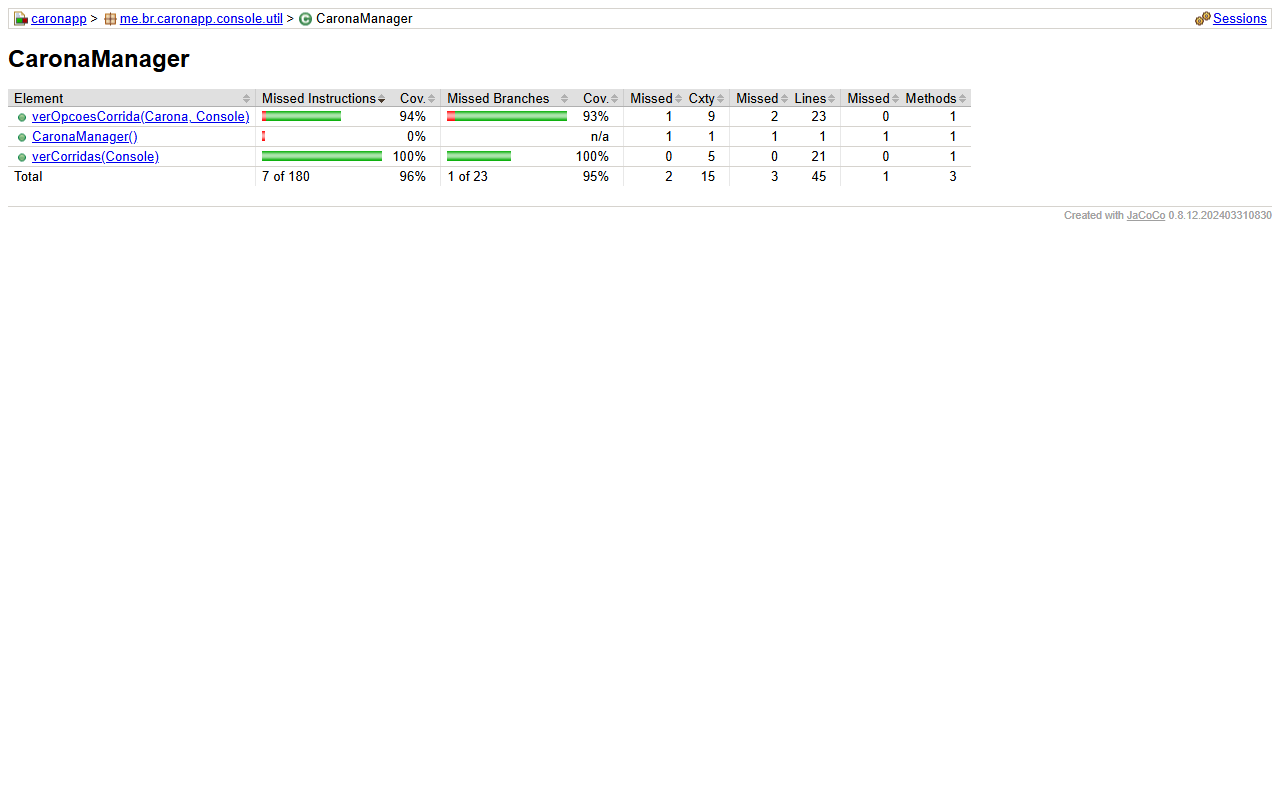
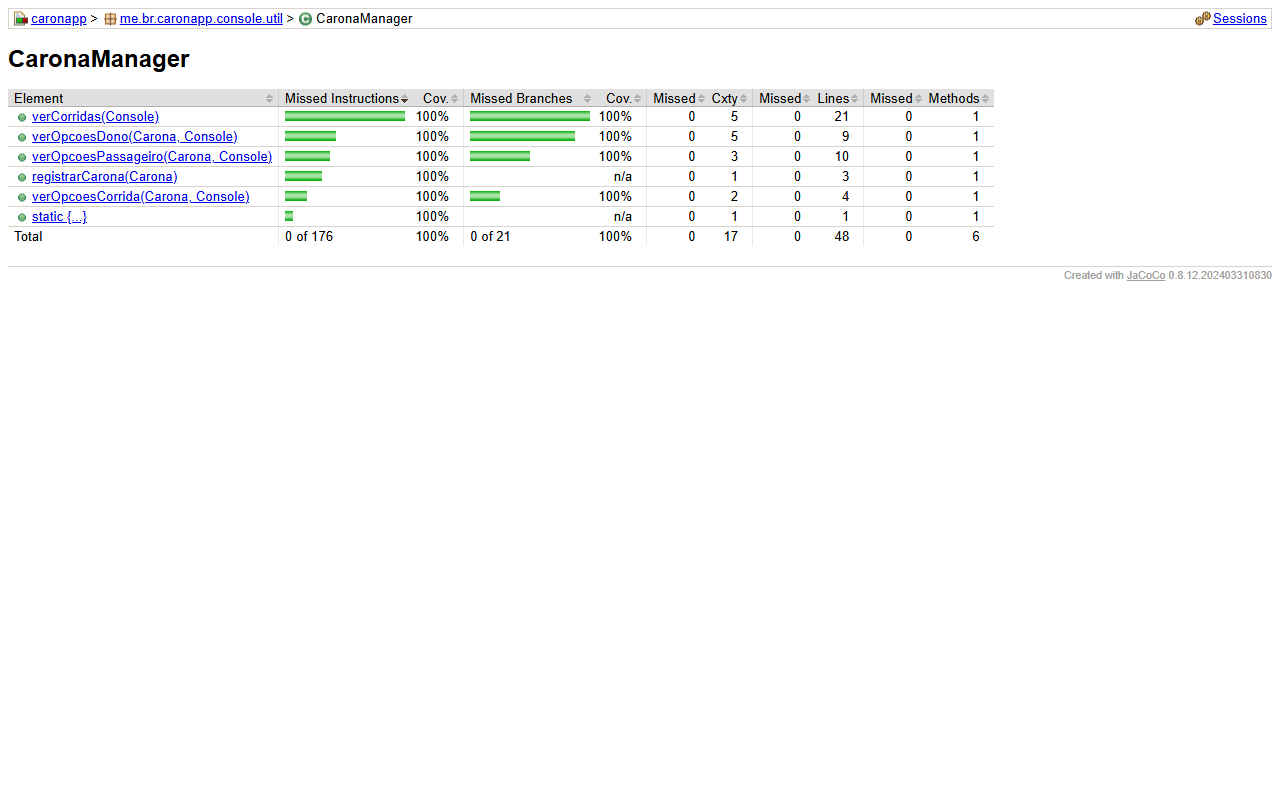
refactor: corrige apontamentos do SonarQube em CaronaManager e atualiza evidencias

diff --git a/test/me/br/caronapp/console/util/CaronaManagerTest.java b/test/me/br/caronapp/console/util/CaronaManagerTest.java
@@ -9,10 +9,15 @@ import static org.mockito.Mockito.verify;
 import static org.mockito.Mockito.when;
 
 import java.io.ByteArrayOutputStream;
-import java.io.PrintStream;
+import java.io.UnsupportedEncodingException;
+import java.nio.charset.StandardCharsets;
 import java.util.ArrayList;
 import java.util.Arrays;
 import java.util.Scanner;
+import java.util.logging.Level;
+import java.util.logging.Logger;
+import java.util.logging.SimpleFormatter;
+import java.util.logging.StreamHandler;
 
 import org.junit.jupiter.api.AfterEach;
 import org.junit.jupiter.api.BeforeEach;
@@ -38,26 +43,38 @@ import me.br.caronapp.usuario.Usuario;
 public class CaronaManagerTest {
 
     private Scanner scanner;
-    private final ByteArrayOutputStream outputCapture = new ByteArrayOutputStream();
-    private final ByteArrayOutputStream errCapture = new ByteArrayOutputStream();
-    private PrintStream originalOut;
-    private PrintStream originalErr;
+    private ByteArrayOutputStream outputCapture;
+    private final Logger logger = Logger.getLogger(CaronaManager.class.getName());
+    private StreamHandler handler;
+    private boolean usarHandlersOriginais;
+    private Level nivelOriginal;
 
     @BeforeEach
-    void setUp() {
-        originalOut = System.out;
-        originalErr = System.err;
-        System.setOut(new PrintStream(outputCapture));
-        System.setErr(new PrintStream(errCapture));
+    void setUp() throws UnsupportedEncodingException {
+        outputCapture = new ByteArrayOutputStream();
+        handler = new StreamHandler(outputCapture, new SimpleFormatter());
+        handler.setEncoding(StandardCharsets.UTF_8.name());
+        usarHandlersOriginais = logger.getUseParentHandlers();
+        nivelOriginal = logger.getLevel();
+        logger.setUseParentHandlers(false);
+        logger.setLevel(Level.INFO);
+        logger.addHandler(handler);
     }
 
     @AfterEach
     void tearDown() {
+        logger.removeHandler(handler);
+        handler.close();
+        logger.setUseParentHandlers(usarHandlersOriginais);
+        logger.setLevel(nivelOriginal);
         if (scanner != null) {
             scanner.close();
         }
-        System.setOut(originalOut);
-        System.setErr(originalErr);
+    }
+
+    private String saida() {
+        handler.flush();
+        return outputCapture.toString(StandardCharsets.UTF_8);
     }
 
     private Console mockConsole(String input, Usuario user) {
@@ -100,7 +117,7 @@ public class CaronaManagerTest {
 
         CaronaManager.verCorridas(console);
 
-        String saida = outputCapture.toString();
+        String saida = saida();
         assertTrue(saida.contains("Caronas nas quais voce eh dono:"));
         assertTrue(saida.contains("Caronas nas quais voce eh passageiro:"));
         assertTrue(saida.contains("Digite um ID de carona:"));
@@ -120,7 +137,7 @@ public class CaronaManagerTest {
 
         CaronaManager.verCorridas(console);
 
-        String saida = outputCapture.toString();
+        String saida = saida();
         int idxDono = saida.indexOf("Caronas nas quais voce eh dono:");
         int idxPassageiro = saida.indexOf("Caronas nas quais voce eh passageiro:");
         int idxC1 = saida.indexOf("1 - Carlos Dono - Praia Vermelha");
@@ -146,7 +163,7 @@ public class CaronaManagerTest {
 
         CaronaManager.verCorridas(console);
 
-        String saida = outputCapture.toString();
+        String saida = saida();
         int idxPassageiro = saida.indexOf("Caronas nas quais voce eh passageiro:");
         int idxC1 = saida.indexOf("10 - Host Um - Valonguinho");
         int idxC2 = saida.indexOf("20 - Host Dois - Praia Vermelha");
@@ -174,7 +191,7 @@ public class CaronaManagerTest {
 
         CaronaManager.verCorridas(console);
 
-        String saida = outputCapture.toString();
+        String saida = saida();
         int idxDono = saida.indexOf("Caronas nas quais voce eh dono:");
         int idxPass = saida.indexOf("Caronas nas quais voce eh passageiro:");
         int idxDigite = saida.indexOf("Digite um ID de carona:");
@@ -199,7 +216,7 @@ public class CaronaManagerTest {
 
         CaronaManager.verCorridas(console);
 
-        assertTrue(outputCapture.toString().contains("Carona nao encontrada..."));
+        assertTrue(saida().contains("Carona nao encontrada..."));
         verify(carona, never()).setEstado(any());
         verify(console).setStage(Stage.LOBBY);
     }
@@ -216,7 +233,7 @@ public class CaronaManagerTest {
 
         CaronaManager.verCorridas(console);
 
-        assertTrue(outputCapture.toString().contains("Vai partir agora? (1 - sim / 0 - nao)"));
+        assertTrue(saida().contains("Vai partir agora? (1 - sim / 0 - nao)"));
         verify(carona).setEstado(Estado.FECHADO);
         verify(console).setStage(Stage.LOBBY);
     }
@@ -232,7 +249,7 @@ public class CaronaManagerTest {
 
         CaronaManager.verCorridas(console);
 
-        assertTrue(outputCapture.toString().contains("Vai partir agora? (1 - sim / 0 - nao)"));
+        assertTrue(saida().contains("Vai partir agora? (1 - sim / 0 - nao)"));
         verify(carona, never()).setEstado(any());
         verify(console).setStage(Stage.LOBBY);
     }
@@ -249,7 +266,7 @@ public class CaronaManagerTest {
 
         CaronaManager.verCorridas(console);
 
-        assertTrue(outputCapture.toString().contains("Ja chegou no ponto? Deseja finalizar? (1 - sim / 0 - nao)"));
+        assertTrue(saida().contains("Ja chegou no ponto? Deseja finalizar? (1 - sim / 0 - nao)"));
         verify(carona).setEstado(Estado.FINALIZADO);
         verify(console).setStage(Stage.LOBBY);
     }
@@ -265,7 +282,7 @@ public class CaronaManagerTest {
 
         CaronaManager.verCorridas(console);
 
-        assertTrue(outputCapture.toString().contains("Ja chegou no ponto? Deseja finalizar? (1 - sim / 0 - nao)"));
+        assertTrue(saida().contains("Ja chegou no ponto? Deseja finalizar? (1 - sim / 0 - nao)"));
         verify(carona, never()).setEstado(any());
         verify(console).setStage(Stage.LOBBY);
     }
@@ -282,7 +299,7 @@ public class CaronaManagerTest {
 
         CaronaManager.verCorridas(console);
 
-        String saida = outputCapture.toString();
+        String saida = saida();
         assertTrue(saida.contains("Sem op") && saida.contains("dispon"));
         verify(carona, never()).setEstado(any());
         verify(console).setStage(Stage.LOBBY);
@@ -302,7 +319,7 @@ public class CaronaManagerTest {
 
         CaronaManager.verCorridas(console);
 
-        assertTrue(outputCapture.toString().contains("Deseja sair dessa corrida? (1 - sim / 0 - nao)"));
+        assertTrue(saida().contains("Deseja sair dessa corrida? (1 - sim / 0 - nao)"));
         verify(carona).removePassageiro(passageiro);
         verify(console).setStage(Stage.LOBBY);
     }
@@ -319,7 +336,7 @@ public class CaronaManagerTest {
 
         CaronaManager.verCorridas(console);
 
-        assertTrue(outputCapture.toString().contains("Deseja sair dessa corrida? (1 - sim / 0 - nao)"));
+        assertTrue(saida().contains("Deseja sair dessa corrida? (1 - sim / 0 - nao)"));
         verify(carona, never()).removePassageiro(any(Usuario.class));
         verify(console).setStage(Stage.LOBBY);
     }
@@ -339,7 +356,9 @@ public class CaronaManagerTest {
 
         CaronaManager.verCorridas(console);
 
-        assertTrue(errCapture.toString().contains("UsuarioNaoEncontradoException"));
+        String saida = saida();
+        assertTrue(saida.contains("Nao foi possivel remover o passageiro da carona."));
+        assertTrue(saida.contains("UsuarioNaoEncontradoException"));
         verify(carona).removePassageiro(passageiro);
         verify(console).setStage(Stage.LOBBY);
     }
@@ -357,7 +376,7 @@ public class CaronaManagerTest {
 
         CaronaManager.verCorridas(console);
 
-        String saida = outputCapture.toString();
+        String saida = saida();
         assertTrue(saida.contains("Sem op") && saida.contains("dispon"));
         verify(carona, never()).removePassageiro(any(Usuario.class));
         verify(console).setStage(Stage.LOBBY);

diff --git a/test/me/br/caronapp/console/util/CaronaManagerIntegrationTest.java b/test/me/br/caronapp/console/util/CaronaManagerIntegrationTest.java
@@ -8,9 +8,14 @@ import static org.mockito.Mockito.verify;
 import static org.mockito.Mockito.when;
 
 import java.io.ByteArrayOutputStream;
-import java.io.PrintStream;
+import java.io.UnsupportedEncodingException;
+import java.nio.charset.StandardCharsets;
 import java.util.Calendar;
 import java.util.Scanner;
+import java.util.logging.Level;
+import java.util.logging.Logger;
+import java.util.logging.SimpleFormatter;
+import java.util.logging.StreamHandler;
 
 import org.junit.jupiter.api.AfterEach;
 import org.junit.jupiter.api.BeforeEach;
@@ -36,25 +41,42 @@ import me.br.caronapp.usuario.Usuario;
 public class CaronaManagerIntegrationTest {
 
     private Scanner scanner;
-    private final ByteArrayOutputStream outputCapture = new ByteArrayOutputStream();
-    private PrintStream originalOut;
+    private ByteArrayOutputStream outputCapture;
+    private final Logger logger = Logger.getLogger(CaronaManager.class.getName());
+    private StreamHandler handler;
+    private boolean usarHandlersOriginais;
+    private Level nivelOriginal;
     private int serialOriginal;
 
     @BeforeEach
-    void setUp() {
+    void setUp() throws UnsupportedEncodingException {
         serialOriginal = Carona.getSerial();
         Carona.setSerial(0);
-        originalOut = System.out;
-        System.setOut(new PrintStream(outputCapture));
+        outputCapture = new ByteArrayOutputStream();
+        handler = new StreamHandler(outputCapture, new SimpleFormatter());
+        handler.setEncoding(StandardCharsets.UTF_8.name());
+        usarHandlersOriginais = logger.getUseParentHandlers();
+        nivelOriginal = logger.getLevel();
+        logger.setUseParentHandlers(false);
+        logger.setLevel(Level.INFO);
+        logger.addHandler(handler);
     }
 
     @AfterEach
     void tearDown() {
+        logger.removeHandler(handler);
+        handler.close();
+        logger.setUseParentHandlers(usarHandlersOriginais);
+        logger.setLevel(nivelOriginal);
         if (scanner != null) {
             scanner.close();
         }
-        System.setOut(originalOut);
         Carona.setSerial(serialOriginal);
+    }
+
+    private String saida() {
+        handler.flush();
+        return outputCapture.toString(StandardCharsets.UTF_8);
     }
 
     private Console consoleComEntrada(String input, Usuario user) {
@@ -91,7 +113,7 @@ public class CaronaManagerIntegrationTest {
 
         CaronaManager.verCorridas(consoleComEntrada(String.valueOf(caronaDono.getID()), usuario));
 
-        String saida = outputCapture.toString();
+        String saida = saida();
         int idxDono = saida.indexOf("Caronas nas quais voce eh dono:");
         int idxPass = saida.indexOf("Caronas nas quais voce eh passageiro:");
         String linhaDono = caronaDono.getID() + " - Rafael Silva - " + caronaDono;
@@ -180,7 +202,7 @@ public class CaronaManagerIntegrationTest {
         Console console = consoleComEntrada(String.valueOf(caronaA.getID()), donoB);
         CaronaManager.verCorridas(console);
 
-        assertTrue(outputCapture.toString().contains("Carona nao encontrada..."));
+        assertTrue(saida().contains("Carona nao encontrada..."));
         assertEquals(Estado.ABERTO, caronaA.getEstado());
         assertEquals(1, donoB.getCaronas().size());
         assertTrue(donoB.getCaronas().contains(caronaB));

diff --git a/docs/ai/AI-LOG.md b/docs/ai/AI-LOG.md
@@ -272,3 +272,16 @@ Nota de organização: a pedido de Ricardo, a cópia intermediária `docs/ai/hos
 - **Resultado:** Criado `test/me/br/caronapp/web/CaronaParticipacaoSeleniumTest.java` com 5 testes cobrindo: entrada em carona e redução de vagas (`ctSCm01`), bloqueio de participação duplicada pelo mesmo passageiro (`ctSCm02`), bloqueio de participação do próprio motorista (`ctSCm03`), recusa quando não há vagas (`ctSCm04`) e saída da carona com liberação da vaga para outro usuário (`ctSCm05`). Durante a validação inicial ocorreram duas falhas de sincronização entre submissões consecutivas no Chrome 157 (`StaleElementReferenceException` e leitura da mensagem anterior ao redirecionamento), corrigidas com um helper (`executarEAguardarMensagem`) baseado em marcador de página e espera explícita. Em seguida, foram reexecutados os perfis JaCoCo e PIT das classes já configuradas no repositório (`HostJoin`, `StorageManager` e `CaronaManager`) para consolidar os números.
 - **Decisão:** Mantido o arquivo de Selenium separado de `CadastroLoginSeleniumTest.java` (escopo de cadastro/login) e adotado o marcador em JavaScript para evitar a instabilidade do `stalenessOf` no Chrome 157 sem modificar `WebMain.java`.
 - **Validação:** `mvn "-Dtest=CaronaParticipacaoSeleniumTest" test` passou com 5 testes, 0 falhas e 0 erros. Os perfis JaCoCo e PIT das classes `HostJoin`, `StorageManager` e `CaronaManager` executaram com sucesso e alimentaram a tabela consolidada do grupo.
+
+---
+
+### Log #020 - Correção dos 16 apontamentos do SonarQube em CaronaManager e atualização das evidências
+
+- **Responsável:** Rafael
+- **Atividade:** Refatoração de `CaronaManager.java` para corrigir os 16 apontamentos levantados na inspeção inicial do SonarQube (`Sonar way comprehensive`) e adaptação dos testes para captura de `Logger`.
+- **Ferramenta:** Antigravity (agente de codificação assistida por IA).
+- **Prompt/Instrução:**
+  > Com base no diagnóstico do SonarQube na revisão `e63d77e` (16 apontamentos em `CaronaManager`), corrigir os problemas da classe sem alterar a regra de negócio, atualizar os testes e deixar pronto para o integrante responsável gerar o print "depois" no SonarQube.
+- **Resultado:** Em `src/me/br/caronapp/console/util/CaronaManager.java` (salvo em UTF-8, ajustando `<sonar.sourceEncoding>` no perfil `inspecao-caronamanager` do `pom.xml`): adicionado construtor privado `private CaronaManager()` (`S1118`); substituídos os 12 `System.out.println` por `java.util.logging.Logger` (`S106`) com parâmetro de log em `registrarCarona`; trocado `e.printStackTrace()` por `LOGGER.log(Level.WARNING, ..., e)` (`S4507`); separado `verOpcoesCorrida` em `verOpcoesDono` e `verOpcoesPassageiro` reduzindo a complexidade cognitiva de 19 para o limite aceito (`S3776`); convertido o `switch` de caso único em `if/else` (`S1301`); e removida a verificação morta `if (carona == null)` em método privado. `CaronaManagerTest` e `CaronaManagerIntegrationTest` foram adaptados para capturar `Logger.getLogger(CaronaManager.class.getName())` via `StreamHandler`.
+- **Decisão:** O integrante aprovou a aplicação das correções após o registro do print "antes" pelo grupo, mantendo a compatibilidade com o restante do projeto (`Console.verCorridas(this)`).
+- **Validação:** `mvn "-Dtest=CaronaManagerTest,CaronaManagerIntegrationTest,CaronaParticipacaoSeleniumTest" test` passou com 35 testes (25 unitários, 5 integração e 5 Selenium, 0 falhas/erros). `mvn verify -Pestrutural-caronamanager` registrou **100% de cobertura** no JaCoCo (**21/21** ramos/arestas, **176/176** instruções, **48/48** linhas, **6/6** métodos). `mvn test-compile org.pitest:pitest-maven:mutationCoverage -Pmutacao-caronamanager` gerou **27 mutantes e matou 27 (100%)**, sem mutantes sobreviventes ou sem cobertura. Prints atualizados em `relatorios/caronamanager/estrutural/caronamanager-jacoco.png` e `relatorios/caronamanager/mutacao/caronamanager-pit.png`.
